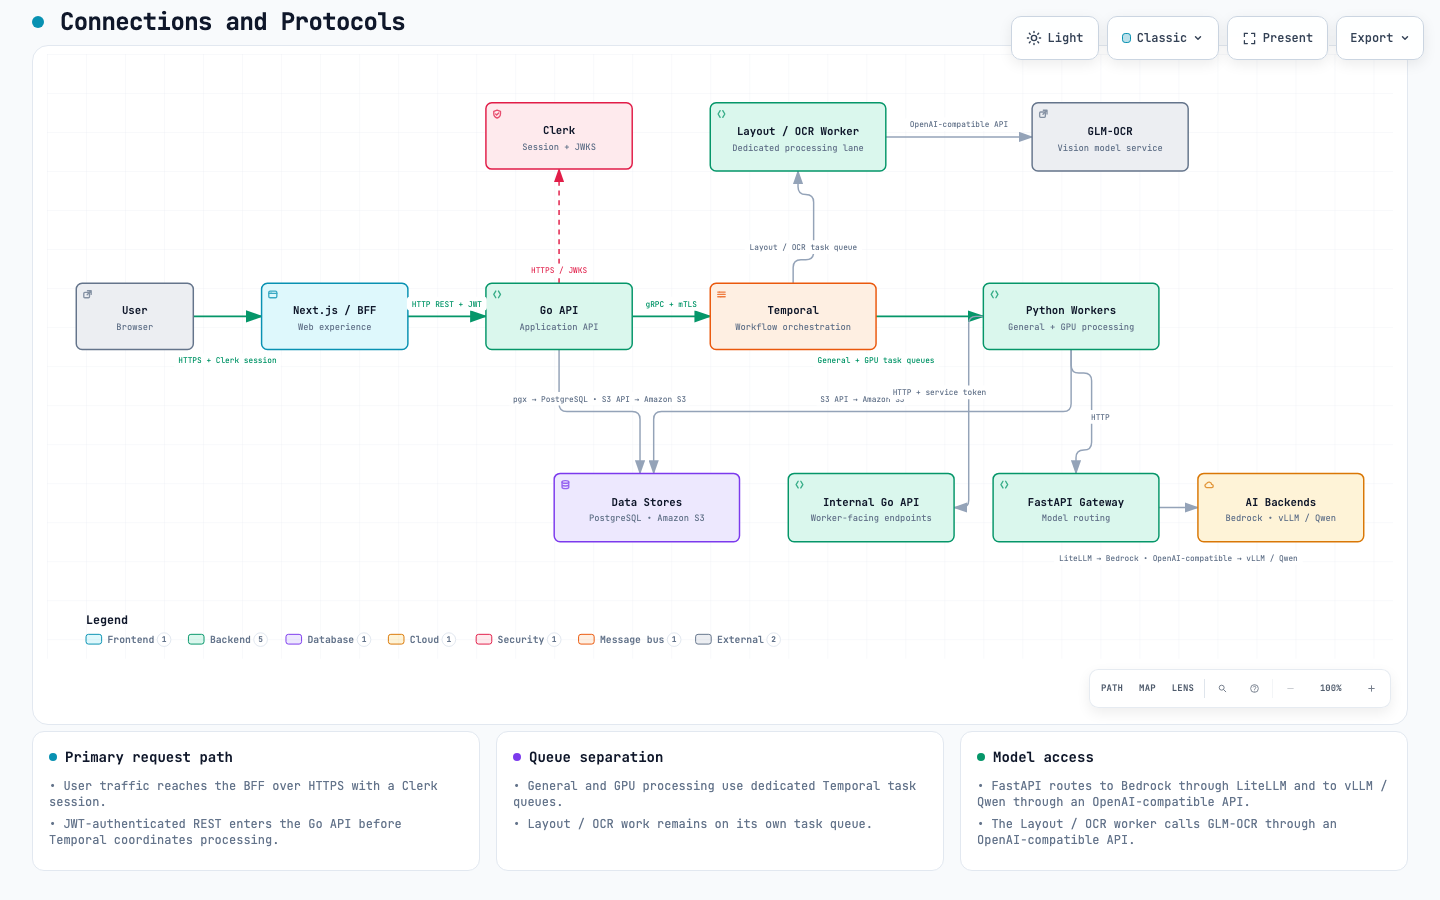
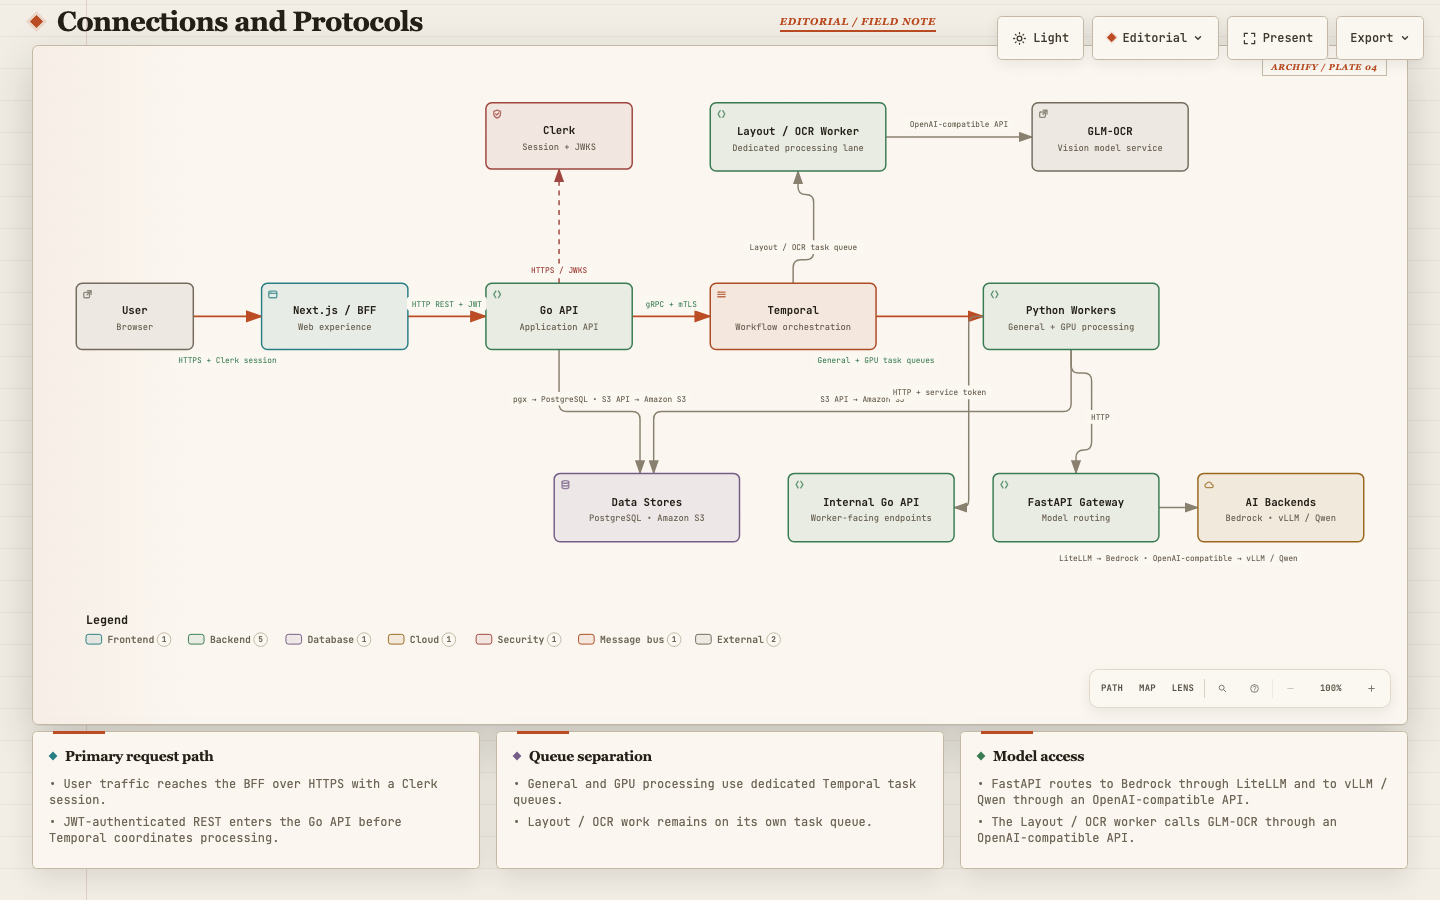
feat(diagrams): align document diagram presentation

diff --git a/public/diagrams/document-intelligence/connections-and-protocols.html b/public/diagrams/document-intelligence/connections-and-protocols.html
@@ -1,5 +1,5 @@
 <!DOCTYPE html>
-<html lang="en" data-theme="dark" data-preset="classic">
+<html lang="en" data-theme="dark" data-preset="editorial">
 <head>
   <meta charset="UTF-8">
   <meta name="viewport" content="width=device-width, initial-scale=1.0">
@@ -5130,7 +5130,7 @@ OTHER DEALINGS IN THE FONT SOFTWARE.
     <!-- Main Diagram -->
     <div class="diagram-container" data-detail-level="read"
          data-preset-badge-editorial-plate="ARCHIFY / PLATE 04">
-      <svg viewBox="0 0 1380 620" role="img" lang="en" aria-labelledby="archify-diagram-title archify-diagram-description" data-preset="classic" data-quality-profile="showcase">
+      <svg viewBox="0 0 1380 620" role="img" lang="en" aria-labelledby="archify-diagram-title archify-diagram-description" data-preset="editorial" data-quality-profile="showcase">
         <title id="archify-diagram-title">Connections and Protocols</title>
         <desc id="archify-diagram-description">An architecture diagram generated by Archify.</desc>
         <!-- Definitions -->

diff --git a/odd/tasks/document-intelligence-flow-diagram.md b/odd/tasks/document-intelligence-flow-diagram.md
@@ -8,7 +8,7 @@ Create and review the Document Intelligence diagram set as standalone Archify ar
 - The generated standalone HTML is the validated review and delivery artifact.
 - The first diagram is the `architecture` view titled **Connections and Protocols**.
 - Static presentation is the default; this architecture view does not add animation.
-- Portfolio integration is a separate future task. None of the integration phases below are complete because of this standalone delivery.
+- Portfolio integration is handled by the dedicated milestone below; the earlier schema/custom-renderer direction remains deferred.
 
 ### Connections and Protocols milestone
 
@@ -23,9 +23,35 @@ Create and review the Document Intelligence diagram set as standalone Archify ar
 
[1 lines of base64/hex data omitted]
 
+### Portfolio integration milestone
+
+Integrate the reviewed Connections and Protocols artifact into the current Document Intelligence case study without reviving the superseded schema/custom-renderer approach in deferred Phases 2–5.
+
+- [x] **DI-INT-1 — Align the artifact treatment:** select the closest supported Archify presentation preset, preserve the JSON source of truth and redeliver the generated HTML with showcase validation.
+- [x] **DI-INT-2 — Extend the case-study narrative:** add `4. Conexiones y protocolos` immediately after `3. Components, technologies, and responsibilities`, embed the light artifact with an accessible title/caption/link, and renumber the following sections.
+- [x] **DI-INT-3 — Add responsive presentation:** style the embed with the scoped Document Intelligence semantic tokens while preserving diagram readability on desktop and mobile.
+- [ ] **DI-INT-4 — Verify and close the work unit:** assert generated-page placement and attributes, run Archify and Astro checks, inspect the embedded result, record evidence, and create the work-unit commit.
+
+### Portfolio integration tracking
+
+- **Status:** Implementation and delegated verification are complete. DI-INT-4 remains open only for the parent-owned work-unit commit and final review boundary.
+- **TDD evidence:** RED — `npm run build && npm run test:pages-output` built 12 pages, then failed because `case-studies/document-intelligence/index.html` lacked the new Connections and Protocols heading. GREEN — after implementation, the same command built 12 pages and passed the generated-output assertions. REFACTOR — the mobile iframe minimum width increased after browser evidence measured 5px rendered SVG labels; the final command remained green and the smallest measured embedded label increased to 8px.
[1 lines of base64/hex data omitted]
+- **Astro evidence:** `npm run check` passed 75 files with 0 errors, warnings, or hints. `git diff --check` passed with no output.
+- **Browser evidence:** Archify `visual-check` passed containment, readability, and Viewer chrome checks at 1440×900, 1600×1000, 1920×1080, and 2048×1320. Embedded checks at 1440×900 and 390×844 confirmed the light artifact, semantic-token frame, a 1,310px desktop viewport without internal horizontal scrolling, and an intentional 1,234px mobile diagram canvas inside a 344px horizontal-scroll viewport. Existing long inline repository citations still extend the overall mobile document width to 418px independently of the contained diagram.
+- **Feature-branch chain:** Slice 1 is commit `eb71a14` (`feat(case-study): embed document architecture diagram`) with 383 authored lines for the narrative, responsive embed and generated-page assertions. Slice 2 contains the Archify preset, regenerated artifact/evidence and this recovery record.
+
+**Authorized scope:** `diagrams/document-intelligence/connections-and-protocols.json`, generated `public/diagrams/document-intelligence/connections-and-protocols.html`, its versioned `connections-and-protocols.visual-check.*` evidence sidecars, `src/content/case-studies/document-intelligence.md`, `src/presentation/layouts/CaseStudyLayout.astro`, `scripts/assert-pages-build.mjs`, and this feature document. Existing unrelated worktree changes must remain untouched.
+
+**Execution route:** `delegated`. The implementation spans four non-trivial source/content/artifact files plus generated output and verification, so the writer trigger applies.
+
+**TDD mode:** Strict where deterministic generated-page assertions apply. Observe RED for the new heading, placement and iframe contract before implementation; then GREEN and refactor. Archify visual styling has no meaningful unit-test RED and instead requires showcase validation, deterministic delivery, browser evidence and direct visual inspection.
+
+**Delivery strategy:** The final staged implementation reached 438 authored changed lines because the new case-study document and its existing table treatment entered version control with this integration. The user selected `feature-branch-chain`. Planned review slices: (1) case-study narrative, responsive embed and generated-page assertions; (2) Archify editorial preset, regenerated artifact/evidence and ODD tracking. No pull request is created without separate user authorization.
+
 ## Goal
 
-Establish reviewed, responsive Archify diagram artifacts for the Document Intelligence case study. Embedding those artifacts inside the reusable case-study template remains a separate integration goal.
+Establish reviewed, responsive Archify diagram artifacts for the Document Intelligence case study and integrate the approved Connections and Protocols view without introducing a custom diagram renderer.
 
 ## Scope
 
@@ -114,28 +140,28 @@ Establish reviewed, responsive Archify diagram artifacts for the Document Intell
 
 ## Phase 6 — Integrate and validate
 
-- [ ] Render the selected diagram from `src/pages/case-studies/[slug].astro`.
-- [ ] Confirm the chosen placement in the case-study template.
-- [ ] Verify light and dark mode contrast.
-- [ ] Verify desktop and mobile layouts.
-- [ ] Run the project build and address any errors.
+- [x] Embed the selected diagram through the Document Intelligence Markdown body without changing the shared route.
+- [x] Place the diagram directly after section 3 under `4. Conexiones y protocolos`.
+- [x] Use the light editorial artifact inside an outer frame driven by the active case-study semantic tokens.
+- [x] Verify the desktop breakout and intentional mobile horizontal-scroll treatment.
+- [x] Run the project build and generated-page assertions successfully.
 
 **Expected result:** The Document Intelligence case study displays a themed, responsive and accessible flow diagram.
 
 ## Implementation decision
 
-Use Archify JSON as the diagram source of truth and the standalone generated HTML as the validated review/delivery artifact. The prior Markdown/frontmatter integration direction remains only a future option; a separate portfolio-integration task must confirm placement and embedding mechanics before changing the case-study template. Move to MDX only if future case studies need to insert several interactive components at arbitrary positions between paragraphs.
+Use Archify JSON as the diagram source of truth and the standalone generated HTML as the validated review/delivery artifact. The portfolio embeds that artifact from the existing Markdown body, so no schema, route, MDX migration, or custom renderer is required. The outer frame uses the Document Intelligence semantic tokens; the inner viewer uses Archify's supported light `editorial` preset rather than claiming unsupported arbitrary palette control. Move to MDX only if future case studies need to insert several interactive components at arbitrary positions between paragraphs.
 
 ## Verification checklist
 
 - [x] Global palette and typography remain unchanged outside the selected case study.
 - [x] The case-study theme is scoped to its own layout.
-- [ ] Diagram data contains no hard-coded presentation styles.
-- [ ] The diagram uses semantic color tokens from the active theme.
-- [ ] The diagram is readable without animation.
-- [ ] Reduced-motion users receive a static diagram.
+- [x] Diagram data contains no hard-coded presentation styles beyond the supported semantic preset selection.
+- [x] The embed frame uses semantic color tokens from the active case-study theme.
+- [x] The diagram is readable without animation.
+- [x] Reduced-motion users receive a static diagram.
 - [x] The project build passes.
 
 ## Next step
 
-Review the standalone **Connections and Protocols** artifact. Plan portfolio integration as a separate task without treating the deferred Phase 2–6 checklist as completed.
+Complete the parent-owned work-unit commit and native review boundary, then continue with the next Document Intelligence diagram only after its standalone artifact is reviewed.
